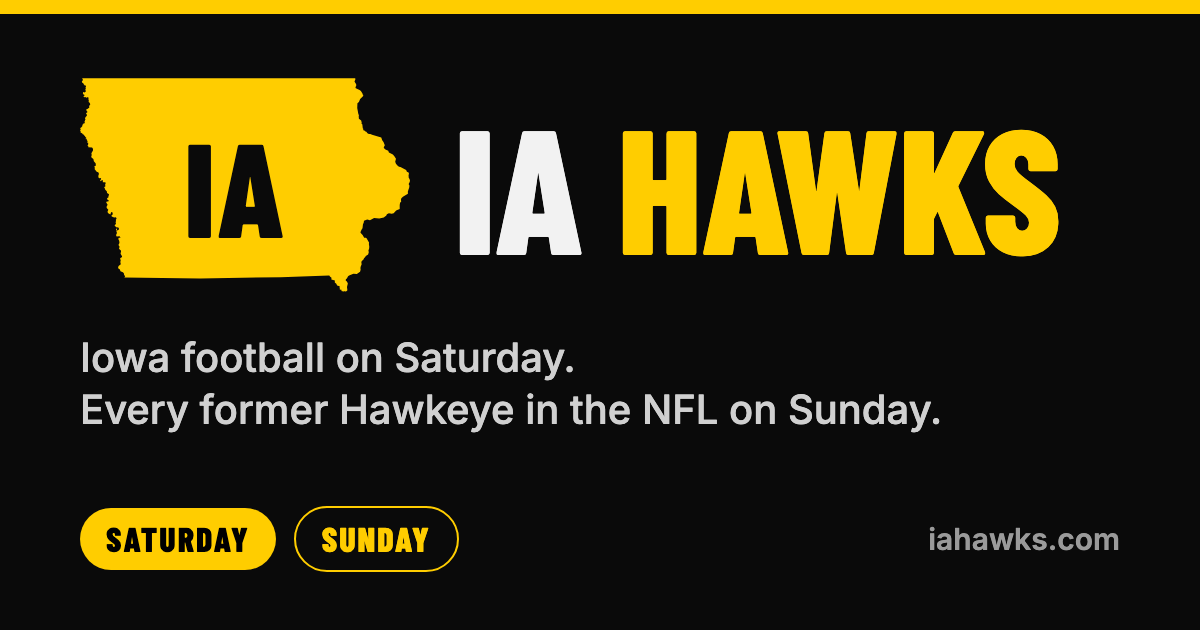
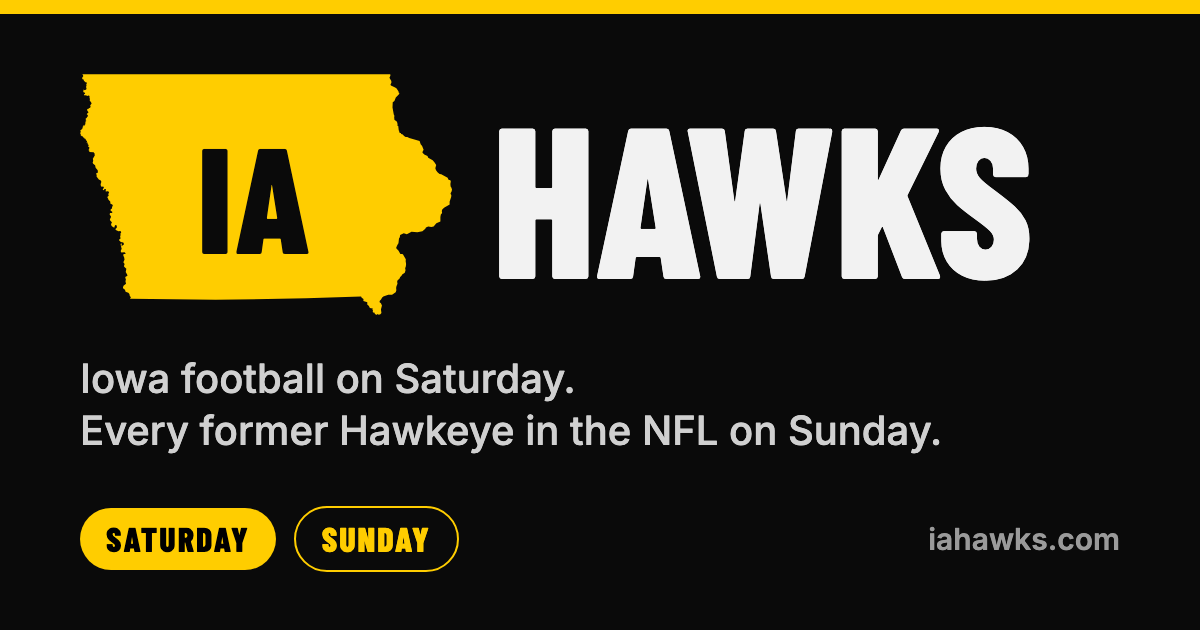
Mark reads IA + Hawks: the state carries the IA, the wordmark is just Hawks
Share image, site header and About header.

Changed region(s): [[0.0617, 0.0905, 0.8942, 0.5127], [0.0617, 0.5429, 0.8017, 0.7238]]

diff --git a/index.html b/index.html
@@ -42,7 +42,7 @@
   /* Header */
   header{position:sticky;top:0;z-index:10;background:var(--bg);border-bottom:3px solid var(--accent)}
   .hdr{display:flex;align-items:center;justify-content:space-between;gap:10px;padding:12px 14px 10px}
-  .mark{flex:none;width:46px;height:30px}
+  .mark{flex:none;width:62px;height:40px}
   .eyebrow{font:700 11px/1 Inter,sans-serif;letter-spacing:.14em;text-transform:uppercase;color:var(--accent)}
   h1{margin:4px 0 0;font:800 28px/1 "Barlow Condensed",sans-serif;text-transform:uppercase;letter-spacing:.01em}
   .week{flex:none;background:var(--accent);color:var(--accent-ink);border-radius:999px;
@@ -224,9 +224,9 @@
 <body>
 <header>
   <div class="wrap hdr">
-    <img class="mark" src="icons/iowa.svg" alt="" width="46" height="30">
+    <svg class="mark" xmlns="http://www.w3.org/2000/svg" viewBox="0 0 1000 647" role="img" aria-label="IA"><path fill="#FFCD00" d="M119.7 0.2 L6.2 0.2 L8.9 4.1 L8 4.8 L8.8 7 L7.7 7.2 L5.5 10.4 L6.9 13.9 L10.6 14.9 L10 17 L14.6 21.7 L17.5 21.7 L18 23.8 L18 26.7 L16.6 27.5 L17.7 31.9 L16 34 L17.4 37.7 L17.2 40.6 L13.4 43.1 L10 41.8 L7.8 42.4 L9.2 42.4 L9.4 46 L8.2 48 L13.2 50.3 L13.8 52.6 L10.5 54.2 L12.3 57.6 L15.8 56.5 L20 58.8 L21.8 57.4 L24.9 57.8 L25.9 60.9 L25.4 64.4 L26.8 66 L26 71 L26.9 71.6 L26.3 72.3 L29.1 74.3 L31.2 78.9 L27.2 84.5 L28.5 86.3 L27.4 90.5 L24.9 90.7 L22.8 93.2 L19.7 93.4 L19.4 95.2 L18.2 95.5 L19.7 95.5 L19.5 98.3 L22.6 101.7 L21.8 104.1 L19.8 104.8 L18.2 107.9 L20.6 109.7 L21.5 112.4 L18.3 116.2 L18.8 117.8 L17.5 117 L16.2 119.5 L15.1 119.5 L15.8 123.2 L14.8 123.6 L17.5 126.1 L15.2 126.5 L14.8 127.8 L15.5 129 L14.2 129.8 L13.7 131.9 L15.1 133.3 L14.5 134.8 L12.8 135 L13.7 137.3 L12 137.1 L11.5 139.3 L10.9 137.3 L8.9 137.3 L9.4 139.3 L6.6 142 L7.5 143.5 L6.9 145.6 L6 145.6 L6.8 146.6 L5.2 146.8 L5.4 148.7 L2.9 148.5 L2 151.1 L0.5 151.4 L1.8 154.7 L3.1 154.5 L0.5 157.2 L1.2 158.6 L0 158.2 L1.2 159.6 L0.8 160.9 L2.3 160.7 L1.4 164.8 L2.3 164.2 L3.7 166.3 L5.1 165.4 L4.2 166.7 L6 166.1 L6.9 167.9 L6 168.5 L7.5 167.7 L8.2 169.4 L9.8 169.4 L9.2 170.4 L10.3 170.6 L9.4 171.6 L11.1 170.8 L12.8 173.3 L12.3 174.5 L14.9 173.9 L15.7 177 L18.9 180.3 L18.6 182.4 L16.6 183.7 L17.1 184.7 L18.5 183.2 L20 183.9 L21.2 188.8 L22.8 189.2 L22 190.7 L23.5 191.7 L21.5 195.3 L24.9 195.7 L24.6 201.9 L22.3 203.7 L25.1 205.6 L25.1 209.3 L36.5 210.2 L38.9 212.6 L39.7 218.4 L34.5 227.1 L35.5 232.9 L34 238.1 L35.5 241 L40.6 244.9 L42 251.6 L47.7 258 L47.5 261.1 L48.5 263.2 L46.5 265.9 L42.9 267.1 L44.9 270.8 L44.5 275.4 L50.6 283.5 L54.8 284.9 L56.9 287.2 L57.1 290.7 L55.4 296.1 L56.3 301.3 L58.6 302.9 L62.3 302.3 L63.9 304 L63.9 306 L61.1 309.3 L62 311.6 L63.7 311.8 L65.2 309.3 L68.3 308.9 L70 310.2 L68.8 314.1 L69.5 315.3 L74.9 314.9 L78.3 316.6 L76 322.8 L77.2 327.1 L73.9 329.4 L73.4 331.1 L75.4 334 L76.5 337.9 L81.2 342.1 L81.9 348.1 L86.8 350.5 L88.3 353.4 L86.3 356.8 L85.9 361.1 L82.8 363 L82 365 L82.6 367.1 L86.5 369.6 L87.1 372.1 L85.2 373.3 L80.9 373.3 L79.4 376.4 L83.7 383.3 L80.2 390.5 L81.6 394.2 L85.9 398.2 L83.7 402.9 L83.7 405.8 L85.6 408.9 L92 412.9 L94.2 406 L97.6 405.4 L99.4 411.2 L98.2 413.7 L95.2 416 L96.2 418.9 L103.4 422 L108.2 421.6 L110.5 423.6 L110.5 426.1 L108.6 428.6 L109.1 432.7 L107.9 436.1 L109.1 441.8 L105.4 444.5 L104.9 446.2 L109.7 451.2 L116.3 452.2 L118.2 456.3 L117.2 458.8 L113.2 461.1 L111.7 459.9 L112.8 455.5 L109.4 456.1 L109.2 459.7 L111.6 461.5 L110.3 463.4 L112 469.2 L109.6 474.4 L109.6 477 L111.2 479.5 L119.6 478.9 L122.6 481.6 L121.7 483.5 L117.7 483.3 L116.3 485.5 L116.6 488.4 L118.8 492.8 L119.6 499.2 L116.5 505.6 L119.9 510.4 L118.3 516 L118.8 517.6 L124.6 522.8 L122.9 531.7 L127.7 540.4 L126.6 542.7 L122.5 544.8 L121.6 546.6 L123.4 552 L122.2 557 L123.7 563.6 L116.9 569 L115.4 573.3 L116.3 576.2 L120.9 579.5 L122.5 584.7 L129.9 587.8 L132.8 590.9 L133.9 596.3 L136.9 600 L134.3 603.8 L364.5 606.5 L608.1 602.7 L755.5 597.8 L757.3 600.9 L762.1 604.6 L761.7 609.6 L772.3 612.9 L772.1 619.3 L776.7 623 L779.2 628.4 L786.9 630.1 L787 632.1 L785.5 633.6 L787.8 635.2 L786.7 639.4 L790 641.2 L792.6 641.2 L792.1 643.5 L793.4 645.8 L796.3 645 L796.1 647 L797.7 647.2 L799.8 645 L803.2 646.6 L807.4 645.4 L810.3 642.3 L809 632.5 L811.7 621.8 L808.9 615.6 L805.5 613.3 L805.4 610 L809.2 606 L812.3 600.2 L815.4 598 L828.7 592.8 L838.9 593 L848.6 586.4 L850.4 580.6 L849.8 574.8 L850.7 570.4 L853.5 563.4 L852.6 558 L853.4 554.9 L859.1 549.3 L860.7 545.2 L864.3 541.9 L866.1 538.3 L873.1 534 L875.1 527.4 L874.1 522 L876 516.6 L876.6 510.6 L875.5 502.7 L875.8 497.8 L868.4 484.5 L866.4 483.5 L861.2 483.5 L856.4 475 L850.1 467.9 L850.1 466.1 L853.5 458.4 L856.1 454.5 L857.5 442.1 L859.7 438.1 L860.6 432.1 L870.3 428 L878.6 430.5 L891.2 423.6 L906.8 424.7 L920.6 422.2 L928.3 415.6 L930 412 L936 409.3 L944.5 410.6 L950.6 409.3 L958 400.9 L968.8 396.1 L968.8 383.9 L970 377 L973.4 373.3 L972.6 368.1 L973.8 364 L978.6 359 L993.7 350.3 L993.5 343.3 L997.8 330 L998.2 325.1 L996.3 322.2 L996.3 319.9 L999.1 314.7 L1000 310.2 L998.2 304.4 L996.3 302.1 L995.7 295 L996.8 288.8 L995.7 285.5 L990.6 283.7 L988.3 278.3 L971.1 269.2 L966.6 268.3 L961.1 263.8 L957.1 258.2 L955.2 253.2 L957.5 243.9 L953.2 237.3 L948.1 231.3 L936.1 224.7 L934.1 219.7 L925.5 215.7 L920.9 211.6 L920.6 209.1 L923.7 203.3 L919.7 193.2 L915.8 188.2 L912.9 179.5 L885.1 171.6 L879.8 169 L875.5 168.7 L871.1 166.5 L867.7 162.5 L863.5 160.9 L862.3 158.2 L859.4 158 L859.1 156.1 L857.7 155.3 L858.4 153 L856.9 151.4 L855.5 139.3 L853.2 138.7 L853.7 134.8 L852.1 128 L845.2 122.8 L844.6 115.7 L845.2 111.8 L843.5 108.3 L840.1 89.9 L840.7 75.8 L845.2 72.3 L848.9 62.9 L857.5 54.2 L858.7 50.9 L856.4 49.5 L856.3 46.8 L851.2 38.7 L847.2 35.8 L835.8 30.6 L834.6 27.5 L837.1 23 L836.9 18.2 L831.8 9.5 L834.4 4.1 L834.1 0 L119.7 0.2Z"/><text x="470.0" y="323.5" text-anchor="middle" dominant-baseline="central" font-family="Barlow Condensed, sans-serif" font-weight="800" font-size="401.14" fill="#0A0A0A" letter-spacing="6">IA</text></svg>
     <div style="flex:1;min-width:0">
-      <h1 id="title">IA Hawks</h1>
+      <h1 id="title" aria-label="IA Hawks">Hawks</h1>
       <div class="eyebrow" id="eyebrow" style="margin-top:5px">Hawkeyes in the NFL</div>
     </div>
     <div style="display:flex;flex-direction:column;align-items:flex-end;gap:6px">
@@ -692,7 +692,8 @@ function render(){
   $("sunLive").hidden = !(state.week.games || []).some(g => g.state === "in");
   renderSunday();
   const site = state.schools.site || {}, sub = sat ? `${s.name} football${state.college.season ? " · " + state.college.season : ""}` : `${s.nickname} in the NFL`;
-  $("title").textContent = site.name || s.nickname;
+  $("title").textContent = site.wordmark || site.name || s.nickname;       // the mark beside it already says "IA"
+  $("title").setAttribute("aria-label", site.name || s.nickname);
   $("eyebrow").textContent = sub;
   document.title = `${site.name || s.nickname} · ${sub}`;
   $("tagline").textContent = site.tagline || "";

diff --git a/about.html b/about.html
@@ -33,7 +33,7 @@
 </style>
 </head>
 <body>
-<header><div class="wrap"><a class="home" href="./"><img src="icons/iowa.svg" alt="" width="40" height="26" style="vertical-align:-2px;margin-right:10px">IA Hawks</a><a class="back" href="./">Back to the site</a></div></header>
+<header><div class="wrap"><a class="home" href="./" aria-label="IA Hawks" style="display:flex;align-items:center;gap:10px"><svg width="56" height="36" xmlns="http://www.w3.org/2000/svg" viewBox="0 0 1000 647" role="img" aria-label="IA"><path fill="#FFCD00" d="M119.7 0.2 L6.2 0.2 L8.9 4.1 L8 4.8 L8.8 7 L7.7 7.2 L5.5 10.4 L6.9 13.9 L10.6 14.9 L10 17 L14.6 21.7 L17.5 21.7 L18 23.8 L18 26.7 L16.6 27.5 L17.7 31.9 L16 34 L17.4 37.7 L17.2 40.6 L13.4 43.1 L10 41.8 L7.8 42.4 L9.2 42.4 L9.4 46 L8.2 48 L13.2 50.3 L13.8 52.6 L10.5 54.2 L12.3 57.6 L15.8 56.5 L20 58.8 L21.8 57.4 L24.9 57.8 L25.9 60.9 L25.4 64.4 L26.8 66 L26 71 L26.9 71.6 L26.3 72.3 L29.1 74.3 L31.2 78.9 L27.2 84.5 L28.5 86.3 L27.4 90.5 L24.9 90.7 L22.8 93.2 L19.7 93.4 L19.4 95.2 L18.2 95.5 L19.7 95.5 L19.5 98.3 L22.6 101.7 L21.8 104.1 L19.8 104.8 L18.2 107.9 L20.6 109.7 L21.5 112.4 L18.3 116.2 L18.8 117.8 L17.5 117 L16.2 119.5 L15.1 119.5 L15.8 123.2 L14.8 123.6 L17.5 126.1 L15.2 126.5 L14.8 127.8 L15.5 129 L14.2 129.8 L13.7 131.9 L15.1 133.3 L14.5 134.8 L12.8 135 L13.7 137.3 L12 137.1 L11.5 139.3 L10.9 137.3 L8.9 137.3 L9.4 139.3 L6.6 142 L7.5 143.5 L6.9 145.6 L6 145.6 L6.8 146.6 L5.2 146.8 L5.4 148.7 L2.9 148.5 L2 151.1 L0.5 151.4 L1.8 154.7 L3.1 154.5 L0.5 157.2 L1.2 158.6 L0 158.2 L1.2 159.6 L0.8 160.9 L2.3 160.7 L1.4 164.8 L2.3 164.2 L3.7 166.3 L5.1 165.4 L4.2 166.7 L6 166.1 L6.9 167.9 L6 168.5 L7.5 167.7 L8.2 169.4 L9.8 169.4 L9.2 170.4 L10.3 170.6 L9.4 171.6 L11.1 170.8 L12.8 173.3 L12.3 174.5 L14.9 173.9 L15.7 177 L18.9 180.3 L18.6 182.4 L16.6 183.7 L17.1 184.7 L18.5 183.2 L20 183.9 L21.2 188.8 L22.8 189.2 L22 190.7 L23.5 191.7 L21.5 195.3 L24.9 195.7 L24.6 201.9 L22.3 203.7 L25.1 205.6 L25.1 209.3 L36.5 210.2 L38.9 212.6 L39.7 218.4 L34.5 227.1 L35.5 232.9 L34 238.1 L35.5 241 L40.6 244.9 L42 251.6 L47.7 258 L47.5 261.1 L48.5 263.2 L46.5 265.9 L42.9 267.1 L44.9 270.8 L44.5 275.4 L50.6 283.5 L54.8 284.9 L56.9 287.2 L57.1 290.7 L55.4 296.1 L56.3 301.3 L58.6 302.9 L62.3 302.3 L63.9 304 L63.9 306 L61.1 309.3 L62 311.6 L63.7 311.8 L65.2 309.3 L68.3 308.9 L70 310.2 L68.8 314.1 L69.5 315.3 L74.9 314.9 L78.3 316.6 L76 322.8 L77.2 327.1 L73.9 329.4 L73.4 331.1 L75.4 334 L76.5 337.9 L81.2 342.1 L81.9 348.1 L86.8 350.5 L88.3 353.4 L86.3 356.8 L85.9 361.1 L82.8 363 L82 365 L82.6 367.1 L86.5 369.6 L87.1 372.1 L85.2 373.3 L80.9 373.3 L79.4 376.4 L83.7 383.3 L80.2 390.5 L81.6 394.2 L85.9 398.2 L83.7 402.9 L83.7 405.8 L85.6 408.9 L92 412.9 L94.2 406 L97.6 405.4 L99.4 411.2 L98.2 413.7 L95.2 416 L96.2 418.9 L103.4 422 L108.2 421.6 L110.5 423.6 L110.5 426.1 L108.6 428.6 L109.1 432.7 L107.9 436.1 L109.1 441.8 L105.4 444.5 L104.9 446.2 L109.7 451.2 L116.3 452.2 L118.2 456.3 L117.2 458.8 L113.2 461.1 L111.7 459.9 L112.8 455.5 L109.4 456.1 L109.2 459.7 L111.6 461.5 L110.3 463.4 L112 469.2 L109.6 474.4 L109.6 477 L111.2 479.5 L119.6 478.9 L122.6 481.6 L121.7 483.5 L117.7 483.3 L116.3 485.5 L116.6 488.4 L118.8 492.8 L119.6 499.2 L116.5 505.6 L119.9 510.4 L118.3 516 L118.8 517.6 L124.6 522.8 L122.9 531.7 L127.7 540.4 L126.6 542.7 L122.5 544.8 L121.6 546.6 L123.4 552 L122.2 557 L123.7 563.6 L116.9 569 L115.4 573.3 L116.3 576.2 L120.9 579.5 L122.5 584.7 L129.9 587.8 L132.8 590.9 L133.9 596.3 L136.9 600 L134.3 603.8 L364.5 606.5 L608.1 602.7 L755.5 597.8 L757.3 600.9 L762.1 604.6 L761.7 609.6 L772.3 612.9 L772.1 619.3 L776.7 623 L779.2 628.4 L786.9 630.1 L787 632.1 L785.5 633.6 L787.8 635.2 L786.7 639.4 L790 641.2 L792.6 641.2 L792.1 643.5 L793.4 645.8 L796.3 645 L796.1 647 L797.7 647.2 L799.8 645 L803.2 646.6 L807.4 645.4 L810.3 642.3 L809 632.5 L811.7 621.8 L808.9 615.6 L805.5 613.3 L805.4 610 L809.2 606 L812.3 600.2 L815.4 598 L828.7 592.8 L838.9 593 L848.6 586.4 L850.4 580.6 L849.8 574.8 L850.7 570.4 L853.5 563.4 L852.6 558 L853.4 554.9 L859.1 549.3 L860.7 545.2 L864.3 541.9 L866.1 538.3 L873.1 534 L875.1 527.4 L874.1 522 L876 516.6 L876.6 510.6 L875.5 502.7 L875.8 497.8 L868.4 484.5 L866.4 483.5 L861.2 483.5 L856.4 475 L850.1 467.9 L850.1 466.1 L853.5 458.4 L856.1 454.5 L857.5 442.1 L859.7 438.1 L860.6 432.1 L870.3 428 L878.6 430.5 L891.2 423.6 L906.8 424.7 L920.6 422.2 L928.3 415.6 L930 412 L936 409.3 L944.5 410.6 L950.6 409.3 L958 400.9 L968.8 396.1 L968.8 383.9 L970 377 L973.4 373.3 L972.6 368.1 L973.8 364 L978.6 359 L993.7 350.3 L993.5 343.3 L997.8 330 L998.2 325.1 L996.3 322.2 L996.3 319.9 L999.1 314.7 L1000 310.2 L998.2 304.4 L996.3 302.1 L995.7 295 L996.8 288.8 L995.7 285.5 L990.6 283.7 L988.3 278.3 L971.1 269.2 L966.6 268.3 L961.1 263.8 L957.1 258.2 L955.2 253.2 L957.5 243.9 L953.2 237.3 L948.1 231.3 L936.1 224.7 L934.1 219.7 L925.5 215.7 L920.9 211.6 L920.6 209.1 L923.7 203.3 L919.7 193.2 L915.8 188.2 L912.9 179.5 L885.1 171.6 L879.8 169 L875.5 168.7 L871.1 166.5 L867.7 162.5 L863.5 160.9 L862.3 158.2 L859.4 158 L859.1 156.1 L857.7 155.3 L858.4 153 L856.9 151.4 L855.5 139.3 L853.2 138.7 L853.7 134.8 L852.1 128 L845.2 122.8 L844.6 115.7 L845.2 111.8 L843.5 108.3 L840.1 89.9 L840.7 75.8 L845.2 72.3 L848.9 62.9 L857.5 54.2 L858.7 50.9 L856.4 49.5 L856.3 46.8 L851.2 38.7 L847.2 35.8 L835.8 30.6 L834.6 27.5 L837.1 23 L836.9 18.2 L831.8 9.5 L834.4 4.1 L834.1 0 L119.7 0.2Z"/><text x="470.0" y="323.5" text-anchor="middle" dominant-baseline="central" font-family="Barlow Condensed, sans-serif" font-weight="800" font-size="401.14" fill="#0A0A0A" letter-spacing="6">IA</text></svg>Hawks</a><a class="back" href="./">Back to the site</a></div></header>
 <main class="wrap">
   <h1>About IA Hawks</h1>
   <p class="lead">Iowa football on Saturday. Every former Hawkeye in the NFL on Sunday. One page, made for your phone.</p>
